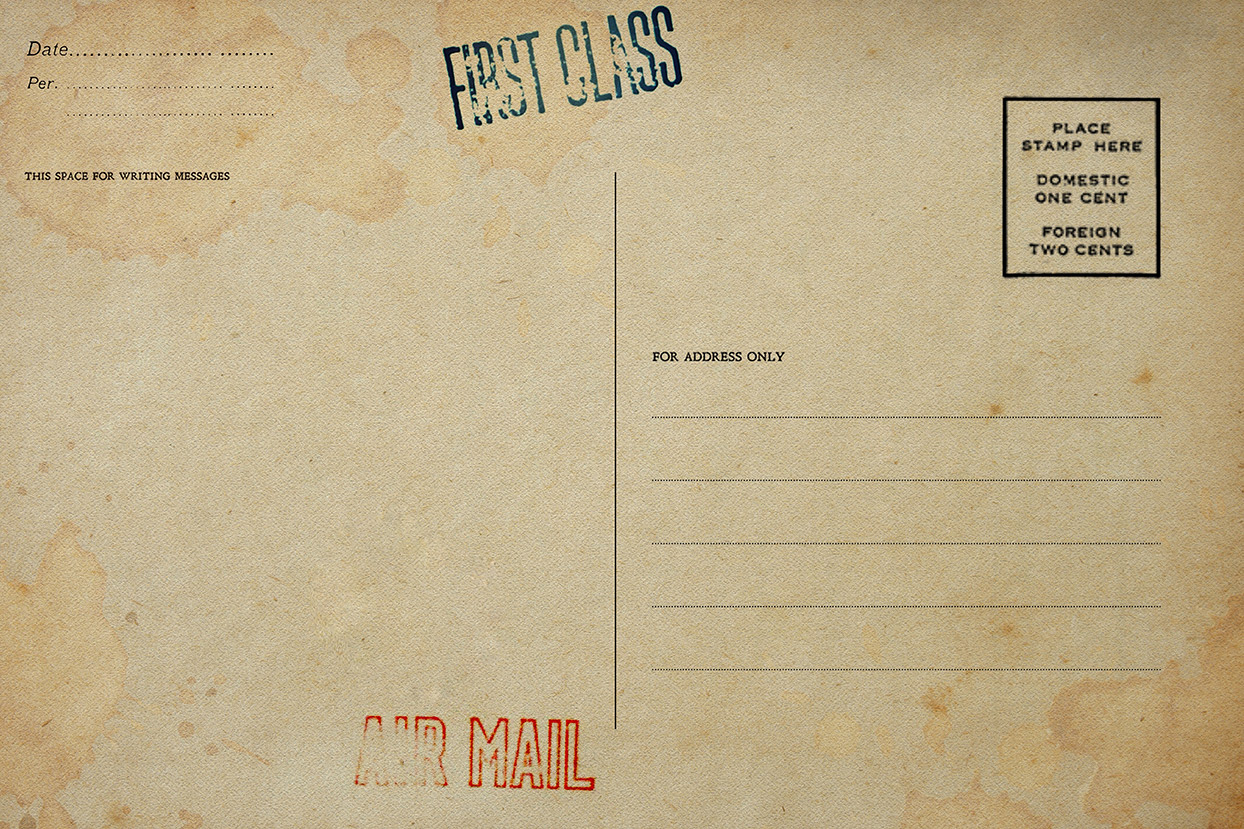
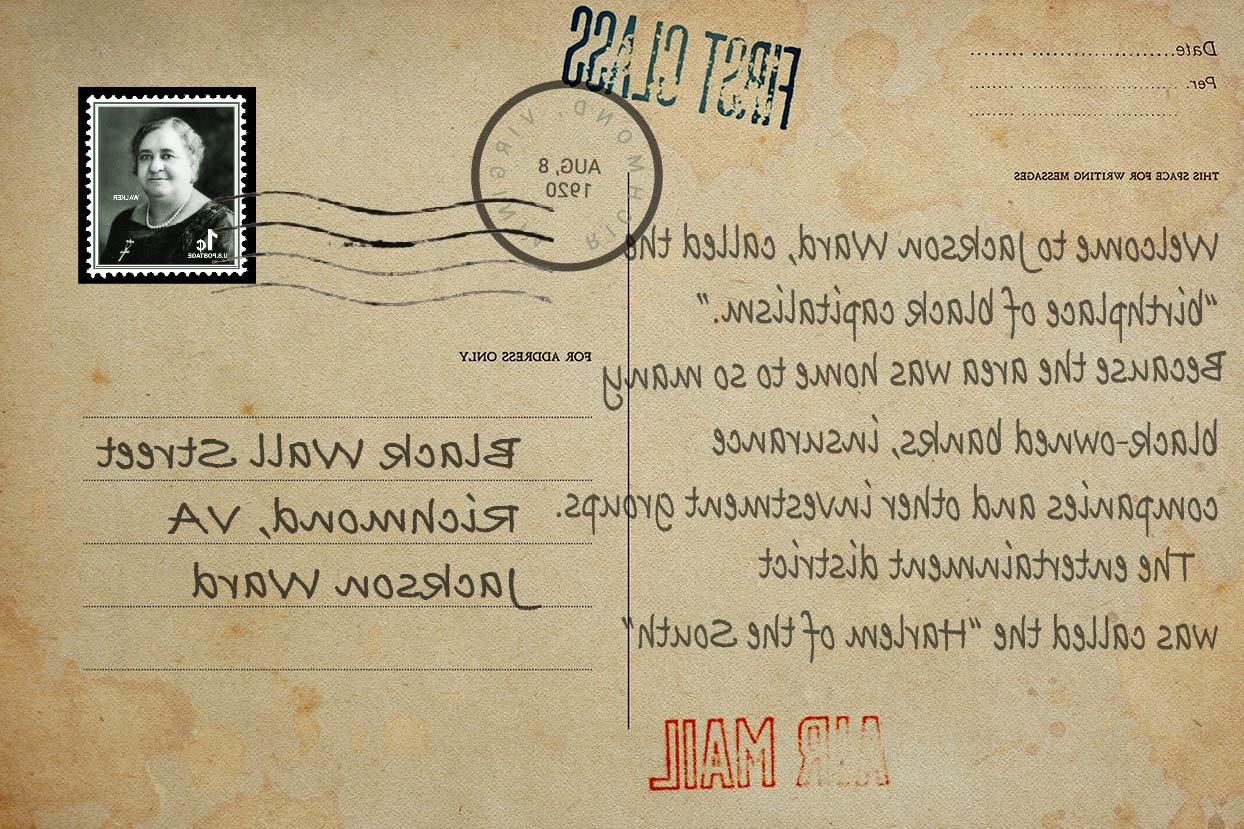
backside and flip

diff --git a/ThreeBlackWallStreets/src/script.js b/ThreeBlackWallStreets/src/script.js
@@ -4,6 +4,9 @@ import { OrbitControls } from 'three/examples/jsm/controls/OrbitControls.js'
 import { GLTFLoader } from 'three/examples/jsm/loaders/GLTFLoader.js'
 import { gsap } from 'gsap'
 import * as dat from 'dat.gui'
+import { SceneUtils } from 'three/examples/jsm/utils/SceneUtils.js'
+
+
 
 const params = {
     exposure: 1.0,
@@ -39,7 +42,7 @@ const loadingManager = new THREE.LoadingManager(
             loadingBarElement.classList.add('ended')
             loadingBarElement.style.transform = ''
         }, 500)
-        console.log(durhamPostcardBW)
+        
     },
 
     // Progress
@@ -63,11 +66,17 @@ const durhamPostcardBW = textureLoader.load('/postcardBW/durham.png')
 const richmondPostcardBW = textureLoader.load('/postcardBW/richmond.png')
 const tulsaPostcardBW = textureLoader.load('/postcardBW/tulsa.png')
 /**
- * postcard bw
+ * postcard color
  */
 const durhamPostcardColor = textureLoader.load('/postcardColor/durham.jpg')
 const richmondPostcardColor = textureLoader.load('/postcardColor/richmond.jpg')
 const tulsaPostcardColor = textureLoader.load('/postcardColor/tulsa.jpg')
+/**
+ * postcard Back
+ */
+const durhamPostcardBack = textureLoader.load('/postcardBack/durham.jpg')
+const richmondPostcardBack = textureLoader.load('/postcardBack/richmond.jpg')
+const tulsaPostcardBack = textureLoader.load('/postcardBack/tulsa.jpg')
 
 
 
@@ -118,23 +127,50 @@ scene.add(overlay)
 
 const postcardGeometry = new THREE.PlaneBufferGeometry(5,3.5,1,1)
 
-const postcardDurhamMaterial = new THREE.MeshStandardMaterial({ 
-    map: durhamPostcardBW
+const postcardDurhamMaterialFront = new THREE.MeshStandardMaterial({ 
+    map: durhamPostcardBW,
+    side: THREE.FrontSide
+    
 })
-const postcardDurhamMesh = new THREE.Mesh( postcardGeometry, postcardDurhamMaterial )
-postcardDurhamMesh.name = 'durhamPostcard'
+const postcardDurhamMaterialBack = new THREE.MeshStandardMaterial({ 
+    map: durhamPostcardBack,
+    side: THREE.BackSide
+})
 
-const postcardTulsaMaterial = new THREE.MeshStandardMaterial({ 
-    map: tulsaPostcardBW
-})
-const postcardTulsaMesh = new THREE.Mesh( postcardGeometry, postcardTulsaMaterial )
-postcardTulsaMesh.name = 'tulsaPostcard'
+const postcardDurhamMaterial = [ postcardDurhamMaterialFront, postcardDurhamMaterialBack ]
+var postcardDurhamMesh = new SceneUtils.createMultiMaterialObject( postcardGeometry, postcardDurhamMaterial );
 
-const postcardRichmondMaterial = new THREE.MeshStandardMaterial({ 
-    map: richmondPostcardBW
+postcardDurhamMesh.children[0].name = 'durhamPostcard'
+
+
+const postcardTulsaMaterialFront = new THREE.MeshStandardMaterial({ 
+    map: tulsaPostcardBW,
+    side: THREE.FrontSide
 })
-const postcardRichmondMesh = new THREE.Mesh( postcardGeometry, postcardRichmondMaterial )
-postcardRichmondMesh.name = 'richmondPostcard'
+const postcardTulsaMaterialBack = new THREE.MeshStandardMaterial({ 
+    map: tulsaPostcardBack,
+    side: THREE.BackSide
+})
+
+const postcardTulsaMaterial = [ postcardTulsaMaterialFront, postcardTulsaMaterialBack ]
+var postcardTulsaMesh = new SceneUtils.createMultiMaterialObject( postcardGeometry, postcardTulsaMaterial );
+
+postcardTulsaMesh.children[0].name = 'tulsaPostcard'
+
+
+const postcardRichmondMaterialFront = new THREE.MeshStandardMaterial({ 
+    map: richmondPostcardBW,
+    side: THREE.FrontSide
+})
+
+const postcardRichmondMaterialBack = new THREE.MeshStandardMaterial({ 
+    map: richmondPostcardBack,
+    side: THREE.BackSide
+})
+
+const postcardRichmondMaterial = [ postcardRichmondMaterialFront, postcardRichmondMaterialBack ]
+const postcardRichmondMesh = new SceneUtils.createMultiMaterialObject( postcardGeometry, postcardRichmondMaterial );
+postcardRichmondMesh.children[0].name = 'richmondPostcard'
 
 postcardTulsaMesh.position.x = -7
 postcardRichmondMesh.position.x = 7
@@ -142,7 +178,8 @@ postcardRichmondMesh.position.x = 7
 scene.add(postcardDurhamMesh, postcardTulsaMesh, postcardRichmondMesh )
 
 
-scene.background = new THREE.Color( 0x404040 )
+
+scene.background = new THREE.Color( 0xffffff )
 /**
  * 
  * Update all materials
@@ -207,8 +244,8 @@ directionalLight.shadow.normalBias = 0.05
 directionalLight.position.set(0.25, 3, - 2.25)
 scene.add(directionalLight)
 
-const ambientLight = new THREE.AmbientLight(0xffffff, 2.0)
-// gui.add(ambientLight, 'intensity').min(0).max(1).step(0.001)
+const ambientLight = new THREE.AmbientLight(0xffffff, 1.0)
+ gui.add(ambientLight, 'intensity').min(0).max(5).step(0.001)
 scene.add(ambientLight)
 
 /**
@@ -258,14 +295,15 @@ window.addEventListener('click', () => {
   
     if(currentIntersects){
        // console.log(currentIntersects);
-        if(currentIntersects.object === null){
-            
+        if(currentIntersects.object === postcardDurhamMesh.children[0]){
            
-        } else if (currentIntersects.object === null) {   
-            // gsap.to(camera.position, { duration: 1, x: 0, y:1.85, z:0})
+            gsap.to(postcardDurhamMesh.rotation, { duration: 1, y: -Math.PI})
+           
+        } else if (currentIntersects.object === postcardTulsaMesh.children[0]) {   
+            gsap.to(postcardTulsaMesh.rotation, { duration: 1, y: -Math.PI})
             
-        } else if (currentIntersects.object === null){
-            
+        } else if (currentIntersects.object === postcardRichmondMesh.children[0]){
+            gsap.to(postcardRichmondMesh.rotation, { duration: 1, y: -Math.PI})
         } else if (currentIntersects.object === null){
 
         }
@@ -328,7 +366,7 @@ const tick = () =>
     raycaster.setFromCamera(mouse, camera)
 
 
-    const objectsToTest = [ placeholder, postcardDurhamMesh, postcardRichmondMesh, postcardTulsaMesh ]
+    const objectsToTest = [ placeholder, postcardDurhamMesh.children[0], postcardRichmondMesh.children[0], postcardTulsaMesh.children[0] ]
     const intersects = raycaster.intersectObjects(objectsToTest)
     
     
@@ -346,17 +384,26 @@ const tick = () =>
             
         if(currentIntersects === null){
             console.log('in')
-            console.log(intersects)
+            
             
 
             if(intersects[0].object.name === 'durhamPostcard') {
-                postcardDurhamMesh.material.map= durhamPostcardColor
+                postcardDurhamMesh.children[0].material.map = durhamPostcardColor
+                gsap.to(postcardTulsaMesh.rotation, { duration: 1, y: 0})
+                gsap.to(postcardRichmondMesh.rotation, { duration: 1, y: 0})
+              
+            } 
+           
+            if(intersects[0].object.name === 'richmondPostcard') {
+                postcardRichmondMesh.children[0].material.map= richmondPostcardColor
+                gsap.to(postcardDurhamMesh.rotation, { duration: 1, y: 0})
+                gsap.to(postcardTulsaMesh.rotation, { duration: 1, y: 0})
+                console.log(intersects[0])
             }
-            if(intersects[0]===postcardRichmondMesh) {
-                postcardRichmondMesh.material.map= richmondPostcardColor
-            }
-            if(intersects[0]===postcardTulsaMesh) {
-                postcardTulsaMesh.material.map= tulsaPostcardColor
+            if(intersects[0].object.name === 'tulsaPostcard') {
+                postcardTulsaMesh.children[0].material.map= tulsaPostcardColor
+                gsap.to(postcardDurhamMesh.rotation, { duration: 1, y: 0})
+                gsap.to(postcardRichmondMesh.rotation, { duration: 1, y: 0})
             }
             
            
@@ -366,9 +413,10 @@ const tick = () =>
     } else {
         if(currentIntersects){
             console.log('out');
-            postcardDurhamMesh.material.map= durhamPostcardBW
-            postcardRichmondMesh.material.map= richmondPostcardBW
-            postcardTulsaMesh.material.map= tulsaPostcardBW
+            postcardDurhamMesh.children[0].material.map = durhamPostcardBW
+            
+            postcardRichmondMesh.children[0].material.map= richmondPostcardBW
+            postcardTulsaMesh.children[0].material.map= tulsaPostcardBW
         }
         currentIntersects = null
     }
